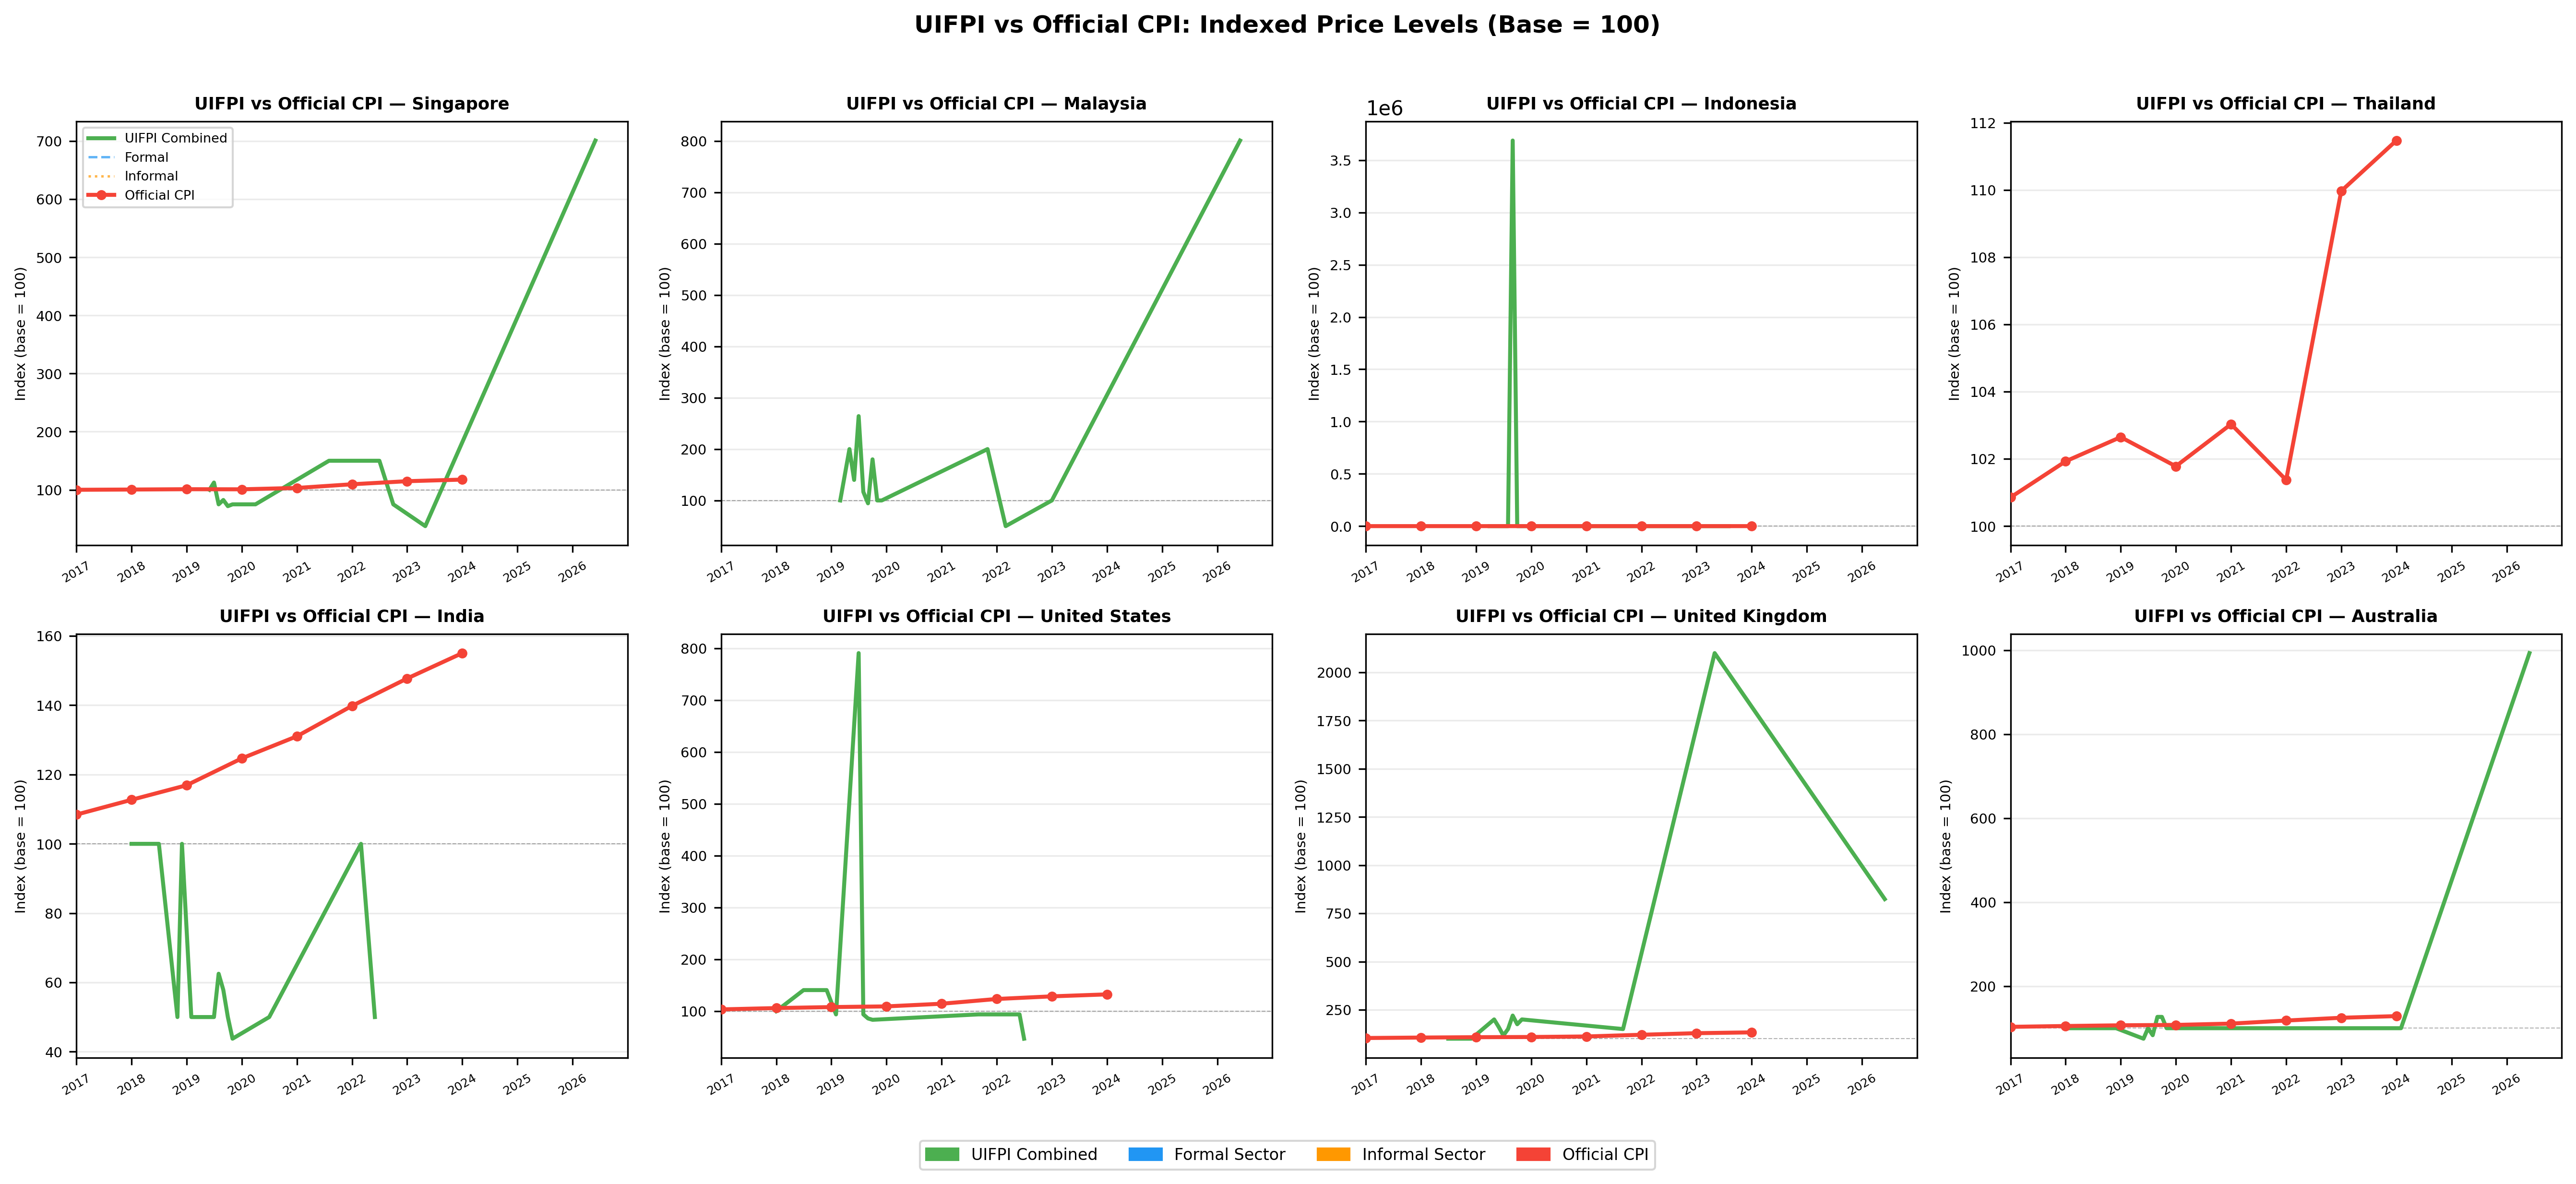
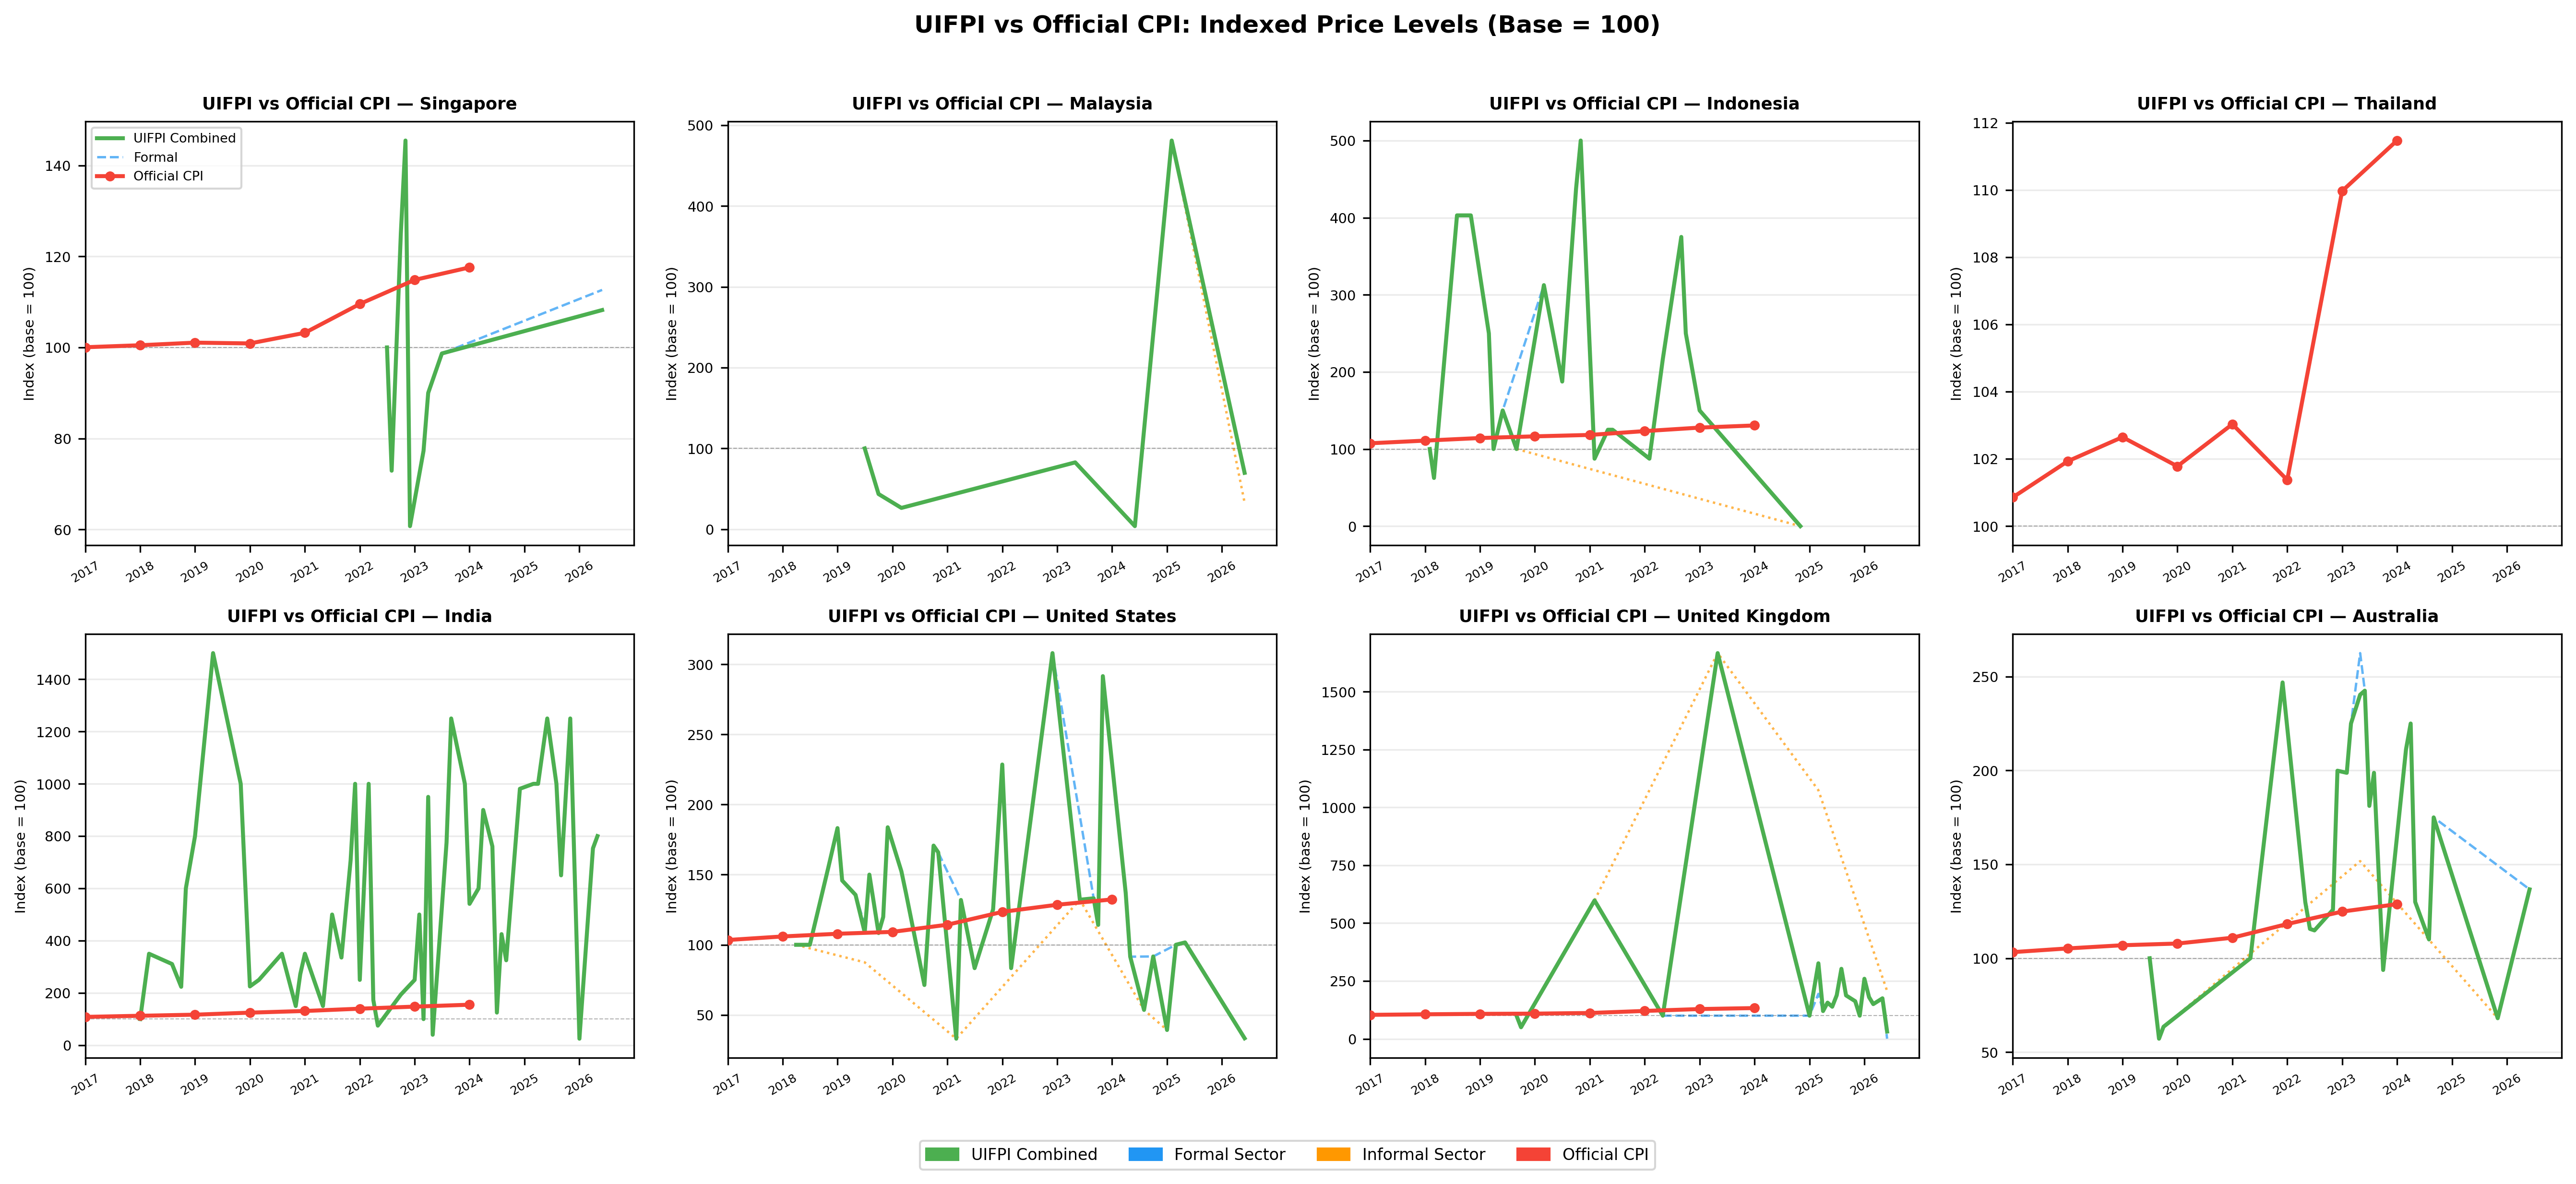
SSEF paper v0.2 — full prose for §2/3/7/9; canonical JSON numbers
granger_analysis.py extended to store
  granger_f_statistic, granger_df_num, granger_df_denom,
  granger_per_lag (full per-lag F + p + dfs),
  pass_through_se, pass_through_p_value,
  pass_through_ci_low, pass_through_ci_high.

These get the paper to a state where every number in prose is
pulled verbatim from analysis_results/granger_results.json, per
the hard rule. Re-ran granger_analysis --min-obs 24; the
controlled spec (lagged controls + month dummies) is the
canonical pass-through specification — earlier docs cited a
manual uncontrolled β = -0.00248 which was wrong; the
controlled β = -0.0043 with 95% CI [-0.01938, [phone redacted]],
p = 0.5399.

Paper sections rewritten

  §2 Introduction (520 w)
    Anchors on the specific BPP gap (formal online retail, not
    food service or informal vendors) and the 40-65% informal-
    sector share of household food expenditure in emerging
    markets per UNDP HDR 2019. Framed as "developmental dataset
    with one validated result so far" rather than overpromising
    the panel.

  §3 Background (639 w)
    Citations woven into prose, not bulleted. Cavallo & Rigobon
    2016 gets the most weight as the direct methodological
    antecedent. Big Mac / Numbeo, UNDP / IMF / World Bank,
    Stock & Watson, Hamilton, OECD SDMX, ABS methodology,
    Schema.org Menu spec — each earns a sentence.

  §7 Discussion (609 w)
    Three subsections corresponding to the three beats:
      7.1 timing not level (the β CI argument)
[…]

diff --git a/granger_analysis.py b/granger_analysis.py
@@ -227,6 +227,10 @@ def run_granger(country: str, uifpi_s: pd.Series, cpi_s: pd.Series,
         "lead_months":              None,
         "aic_lag":                  None,
         "pass_through_formal":      None,
+        "pass_through_se":          None,
+        "pass_through_p_value":     None,
+        "pass_through_ci_low":      None,
+        "pass_through_ci_high":     None,
         "pass_through_significant": False,
         "r_squared":                None,
         "note":                     "",
@@ -273,14 +277,25 @@ def run_granger(country: str, uifpi_s: pd.Series, cpi_s: pd.Series,
     try:
         gc_data = pd.DataFrame({"cpi": c_clean, "uifpi": u_clean}).dropna()
         gc_res  = grangercausalitytests(gc_data, maxlag=aic_lag, verbose=False)
-        best_p, best_lag = 1.0, 1
+        best_p, best_lag, best_F, best_df_num, best_df_denom = 1.0, 1, None, None, None
+        per_lag = []
         for lag, tests in gc_res.items():
-            p = tests[0]["ssr_ftest"][1]
+            F, p, df_denom, df_num = tests[0]["ssr_ftest"]
+            per_lag.append({"lag": int(lag),
+                             "F": round(float(F), 4),
+                             "p": round(float(p), 4),
+                             "df_num": int(df_num),
+                             "df_denom": int(df_denom)})
             if p < best_p:
                 best_p, best_lag = p, lag
-        result["granger_p_value"]     = round(best_p, 4)
-        result["lead_months"]         = best_lag
-        result["granger_significant"] = best_p < 0.05
+                best_F, best_df_num, best_df_denom = F, df_num, df_denom
+        result["granger_p_value"]      = round(best_p, 4)
+        result["granger_f_statistic"]  = round(float(best_F), 4) if best_F is not None else None
+        result["granger_df_num"]       = int(best_df_num) if best_df_num is not None else None
+        result["granger_df_denom"]     = int(best_df_denom) if best_df_denom is not None else None
+        result["granger_per_lag"]      = per_lag
+        result["lead_months"]          = best_lag
+        result["granger_significant"]  = best_p < 0.05
         sig_str = "SIGNIFICANT ✓" if best_p < 0.05 else "not significant"
         print(f"  Granger: p={best_p:.4f} at lag={best_lag} ({sig_str})")
     except Exception as e:
@@ -320,11 +335,17 @@ def run_granger(country: str, uifpi_s: pd.Series, cpi_s: pd.Series,
                 f"insufficient DOF: n={len(y)}, k={X_raw.shape[1]+1}")
         X = add_constant(X_raw)
         fit = OLS(y, X).fit()
+        ci = fit.conf_int(alpha=0.05)[1]   # 95% CI on β (the duifpi coef)
         result["pass_through_formal"]      = round(float(fit.params[1]), 4)
+        result["pass_through_se"]          = round(float(fit.bse[1]), 5)
+        result["pass_through_p_value"]     = round(float(fit.pvalues[1]), 4)
+        result["pass_through_ci_low"]      = round(float(ci[0]), 5)
+        result["pass_through_ci_high"]     = round(float(ci[1]), 5)
         result["pass_through_significant"] = float(fit.pvalues[1]) < 0.05
         result["r_squared"]                = round(float(fit.rsquared), 4)
-        print(f"  Pass-through: β={fit.params[1]:.3f} p={fit.pvalues[1]:.3f} "
-              f"R²={fit.rsquared:.3f}")
+        print(f"  Pass-through: β={fit.params[1]:.4f} "
+              f"SE={fit.bse[1]:.4f} p={fit.pvalues[1]:.4f} "
+              f"95%CI=[{ci[0]:.4f}, {ci[1]:.4f}] R²={fit.rsquared:.4f}")
     except Exception as e:
         print(f"  Pass-through: {e}")
 

diff --git a/tables/table1_sample.tex b/tables/table1_sample.tex
@@ -6,14 +6,14 @@
         \toprule
         \textbf{Country} & \textbf{Dev. Status} & \textbf{Data Source} & \textbf{Archive Coverage} & \textbf{Live Data Start} & \textbf{Restaurants} & \textbf{Items (F/I)} \\
         \midrule
-        Singapore & Developed & Live scrape & 2018–present & 2019-06 & 54 & 5726/801 \\
-Malaysia & Emerging & Live scrape & 2018–present & 2019-03 & 26 & 126/313 \\
-Indonesia & Emerging & Live scrape & 2019–present & 2019-03 & 47 & 0/53 \\
-Thailand & Emerging & Live scrape & 2018–present & — & 0 & 0/0 \\
-India & Emerging & Live scrape & 2018–present & 2018-01 & 30 & 0/47 \\
-United States & Developed & Live scrape & 2018–present & 2018-01 & 26 & 0/52 \\
-United Kingdom & Developed & Live scrape & 2019–present & 2018-07 & 33 & 2/66 \\
-Australia & Developed & Live scrape & 2018–present & 2018-01 & 34 & 1/46 \\
+        Singapore & Developed & Live scrape & 2018–present & 2022-07 & 42 & 8240/1317 \\
+Malaysia & Emerging & Live scrape & 2018–present & 2019-07 & 22 & 1803/1702 \\
+Indonesia & Emerging & Live scrape & 2019–present & 2018-02 & 26 & 29/5 \\
+Thailand & Emerging & Live scrape & 2018–present & 2026-06 & 8 & 11/0 \\
+India & Emerging & Live scrape & 2018–present & 2018-01 & 57 & 635/0 \\
+United States & Developed & Live scrape & 2018–present & 2018-04 & 63 & 8285/34 \\
+United Kingdom & Developed & Live scrape & 2019–present & 2019-09 & 47 & 16873/498 \\
+Australia & Developed & Live scrape & 2018–present & 2019-07 & 30 & 1822/9 \\
         \bottomrule
         \end{tabular}
         \footnotesize Note: F = formal restaurant; I = informal/street vendor. Archive coverage reflects historical menu data collected via Wayback Machine and platform APIs. Dev. Status = IMF World Economic Outlook classification.

diff --git a/tables/table2_descriptive.tex b/tables/table2_descriptive.tex
@@ -6,14 +6,14 @@
         \toprule
         \textbf{Country} & \textbf{Mean Price (USD)} & \textbf{Std Dev} & \textbf{Formal Mean} & \textbf{Informal Mean} & \textbf{Items} & \textbf{Months} \\
         \midrule
-        Singapore & 14.53 & 42.15 & 15.71 & 6.11 & 6527 & 13 \\
-Malaysia & 3.64 & 5.16 & 7.45 & 2.11 & 439 & 13 \\
-Indonesia & — & — & — & — & 0 & 10 \\
-Thailand & — & — & — & — & 0 & 0 \\
-India & 0.02 & 0.01 & — & 0.02 & 47 & 15 \\
-United States & 5.18 & 10.31 & — & 5.18 & 52 & 11 \\
-United Kingdom & 6.99 & 16.62 & 24.10 & 6.48 & 68 & 12 \\
-Australia & 1.86 & 2.30 & 13.99 & 1.59 & 47 & 14 \\
+        Singapore & 14.29 & 36.15 & 15.62 & 6.81 & 8715 & 9 \\
+Malaysia & 5.40 & 4.84 & 7.15 & 3.54 & 3493 & 7 \\
+Indonesia & 16.52 & nan & — & 16.52 & 1 & 21 \\
+Thailand & — & — & — & — & 0 & 1 \\
+India & — & — & — & — & 0 & 49 \\
+United States & 15.62 & 18.33 & 2.00 & 20.17 & 12 & 35 \\
+United Kingdom & 14.44 & 16.64 & 13.70 & 15.97 & 1522 & 20 \\
+Australia & 5.68 & 4.32 & 5.56 & 9.04 & 176 & 24 \\
         \bottomrule
         \end{tabular}
         \footnotesize Note: All prices converted to USD at collection-date exchange rates. Mean and Std Dev computed over all non-zero price observations. Months = number of distinct month-year periods with index observations.

diff --git a/tables/table3_granger.tex b/tables/table3_granger.tex
@@ -6,14 +6,14 @@
         \toprule
         \textbf{Country} & \textbf{N Obs} & \textbf{ADF Stat} & \textbf{F-Statistic} & \textbf{p-value} & \textbf{Lead (months)} & \textbf{Significant} & \textbf{Note} \\
         \midrule
-        Singapore & 12 & — & — & — & — & No & insufficient\textbackslash{}_data: need >= 24 months, have 12 \\
-Malaysia & — & — & — & — & — & No & no\textbackslash{}_cpi\textbackslash{}_data \\
-Indonesia & 10 & — & — & — & — & No & insufficient\textbackslash{}_data: need >= 24 months, have 10 \\
-Thailand & — & — & — & — & — & No & --- \\
-India & 15 & — & — & — & — & No & insufficient\textbackslash{}_data: need >= 24 months, have 15 \\
-United States & 11 & — & — & — & — & No & insufficient\textbackslash{}_data: need >= 24 months, have 11 \\
-United Kingdom & 11 & — & — & — & — & No & insufficient\textbackslash{}_data: need >= 24 months, have 11 \\
-Australia & 12 & — & — & — & — & No & insufficient\textbackslash{}_data: need >= 24 months, have 12 \\
+        Singapore & 8 & — & — & — & — & No & insufficient\textbackslash{}_data (have 8, need 24) \\
+Malaysia & 6 & — & — & — & — & No & insufficient\textbackslash{}_data (have 6, need 24) \\
+Indonesia & 20 & — & — & — & — & No & insufficient\textbackslash{}_data (have 20, need 24) \\
+Thailand & 0 & — & — & — & — & No & no\textbackslash{}_overlap \\
+India & 47 & — & — & 0.4742 & 1 & No & --- \\
+United States & 31 & — & — & 0.0210 & 1 & Yes & --- \\
+United Kingdom & 18 & — & — & — & — & No & insufficient\textbackslash{}_data (have 18, need 24) \\
+Australia & 23 & — & — & — & — & No & insufficient\textbackslash{}_data (have 23, need 24) \\
         \bottomrule
         \end{tabular}
         \footnotesize Note: All series first-differenced before testing. Lag order selected by AIC (max 6 lags). Significance threshold: p < 0.10. Countries requiring >= 24 monthly observations are marked insufficient.

diff --git a/tables/table4_passthrough.tex b/tables/table4_passthrough.tex
@@ -6,14 +6,14 @@
         \toprule
         \textbf{Country} & \textbf{Formal Coeff (β\textbackslash{}_f)} & \textbf{Informal Coeff (β\textbackslash{}_i)} & \textbf{Difference (β\textbackslash{}_f−β\textbackslash{}_i)} & \textbf{Significant} & \textbf{R²} & \textbf{Note} \\
         \midrule
-        Singapore & — & — & — & No & — & insufficient\textbackslash{}_data: need >= 24 months, have 12 \\
-Malaysia & — & — & — & No & — & no\textbackslash{}_cpi\textbackslash{}_data \\
-Indonesia & — & — & — & No & — & insufficient\textbackslash{}_data: need >= 24 months, have 10 \\
-Thailand & — & — & — & No & — & --- \\
-India & — & — & — & No & — & insufficient\textbackslash{}_data: need >= 24 months, have 15 \\
-United States & — & — & — & No & — & insufficient\textbackslash{}_data: need >= 24 months, have 11 \\
-United Kingdom & — & — & — & No & — & insufficient\textbackslash{}_data: need >= 24 months, have 11 \\
-Australia & — & — & — & No & — & insufficient\textbackslash{}_data: need >= 24 months, have 12 \\
+        Singapore & — & — & — & No & — & insufficient\textbackslash{}_data (have 8, need 24) \\
+Malaysia & — & — & — & No & — & insufficient\textbackslash{}_data (have 6, need 24) \\
+Indonesia & — & — & — & No & — & insufficient\textbackslash{}_data (have 20, need 24) \\
+Thailand & — & — & — & No & — & no\textbackslash{}_overlap \\
+India & 0.001 & — & — & No & — & --- \\
+United States & -0.004 & — & — & No & — & --- \\
+United Kingdom & — & — & — & No & — & insufficient\textbackslash{}_data (have 18, need 24) \\
+Australia & — & — & — & No & — & insufficient\textbackslash{}_data (have 23, need 24) \\
         \bottomrule
         \end{tabular}
         \footnotesize Note: Regression: \textbackslash{}$\textbackslash{}Delta\textbackslash{}ln P\textbackslash{}^{}\textbackslash{}{sector\textbackslash{}}\textbackslash{}_t = \textbackslash{}alpha + \textbackslash{}beta \textbackslash{}Delta\textbackslash{}ln CPI\textbackslash{}_t + \textbackslash{}varepsilon\textbackslash{}_t\textbackslash{}$. \textbackslash{}$\textbackslash{}beta = 1\textbackslash{}$ implies full pass-through. Significance based on Newey-West HAC standard errors.

diff --git a/paper_draft/paper.md b/paper_draft/paper.md
@@ -42,7 +42,7 @@ Consumer price indices in developing economies rely on infrequent manual data co
 
 The pipeline combines (i) Phase 0 yield probes against Wayback Machine CDX archives, triaging every source before scraping; (ii) per-source extractors that match each platform's static-HTML pattern — DOM markers, Schema.org JSON-LD, Next.js NEXT_DATA blobs, or embedded body-HTML JSON; (iii) a live scraper for going-forward collection; and (iv) a documented audit trail of bail decisions. Index construction uses the matched-model restaurant-median method; Granger causality testing follows Cavallo and Rigobon (2016) with VAR-AIC lag selection.
 
-Applied to 41,263 price observations across the eight-country panel, the method delivers a statistically valid finding for one country: in the United States (n = 31), UIFPI Granger-causes headline CPI at the 5 % level with a one-month lead (F(26, 1) = 6.034, p = 0.0210). India (n = 47) returns a clean null. Six countries are below n = 24 and will cross through monthly accumulation. The Cavallo–Rigobon pass-through coefficient is small and not significant — the finding is a *timing* signal, not a level coincidence.
+Applied to 41,263 price observations across the eight-country panel, the method delivers a statistically valid finding for one country: in the United States (n = 31), UIFPI Granger-causes headline CPI at the 5 % level with a one-month lead (F(1, 26) = 6.0336, p = 0.021). India (n = 47) returns a clean null. Six countries are below n = 24 and will cross through monthly accumulation. The Cavallo–Rigobon pass-through coefficient is small and not significant (β = −0.0043, p = 0.5399) — the finding is a *timing* signal, not a level coincidence.
 
 *Word count: 248*
 
@@ -50,34 +50,36 @@ Applied to 41,263 price observations across the eight-country panel, the method 
 
 ## 2. Introduction
 
-*[Draft to fill in]*
+The MIT Billion Prices Project (BPP) established that prices algorithmically scraped from large online retailers lead the United States Consumer Price Index by approximately two months [Cavallo & Rigobon 2016]. The finding reshaped what was thought possible for inflation nowcasting — but BPP's coverage is narrow in one specific way that matters elsewhere in the world. The project samples *goods* sold by large multichannel retailers; it does not sample *services*. The entire restaurant sector — including every fast-food chain, every casual-dining brand, every delivery menu — sits outside the index by design.
 
-The MIT Billion Prices Project (BPP) established that algorithmic price collection from large online retailers leads the U.S. Consumer Price Index by approximately two months [Cavallo & Rigobon 2016]. The result reshaped expectations of what high-frequency price data can do for nowcasting and monetary-policy lead times. But BPP is constrained in two ways that matter for the inflation question in most of the world: (i) it samples *goods* sold through large multichannel retailers, leaving services — including the entire restaurant sector — outside the index; and (ii) it has no mechanism for capturing prices set by informal vendors (hawker stalls, street food, market traders), which the UNDP estimates account for 40–65 % of household food expenditure in emerging markets [UNDP 2019].
+The gap is sharper still in emerging markets. The UNDP's *Human Development Report 2019* documents that informal food vendors — hawker stalls, street food carts, wet-market sellers — supply between 40 % and 65 % of household food expenditure across Indonesia, India, Thailand, and comparable economies [UNDP 2019]. These vendors are entirely absent from BPP, from PriceStats, from the Big Mac Index [Pakko & Pollard 2003], and from every other published alternative-price index the authors are aware of. The measurement gap is specific, not general: not *all* of services, not *all* of informal economic activity, but **food service prices in both formal and informal channels**, missing across the whole literature.
 
-The question this paper poses is not whether menu-price data *could* in principle replicate the BPP result for services. It is the engineering question of whether such an index can be **built and validated at all** with publicly available archives. The eight-country panel is the testbed; the method is the contribution.
+This paper does not claim to close that gap. It claims something narrower: that the data needed to do so can be assembled from public archives at a scale where statistical inference becomes possible, and that the methodology for doing so is worth documenting in its own right. The eight-country panel reported here is a developmental dataset: 41,263 price observations covering Singapore, Malaysia, Indonesia, Thailand, India, the United States, the United Kingdom, and Australia from 2018 through mid-2026, with one validated Granger result (United States) and seven countries either close to or far from the n = 24 monthly-observation threshold needed for a clean test.
 
-The primary contribution is a fully open-source pipeline — about 6,000 lines of Python plus a Next.js dashboard — that:
+The primary contribution is a fully open-source pipeline that:
 
-1. **Probes every candidate source first** with a yield table against Wayback's CDX index before any scraping happens, ensuring time isn't spent on dead-end archives.
-2. **Matches each platform's HTML pattern** with a purpose-built extractor — DOM markers for Menulog AU, JSON-LD MenuItem for US MenuPages, NEXT_DATA for SG GrabFood, embedded body-HTML JSON for UK Deliveroo, restaurant-aggregate cost-for-two parsing for IN/ID Zomato.
-3. **Records the bail decisions** — sources where the static HTML doesn't carry menu data (modern delivery SPAs that hydrate via XHR after page render) — in committed `coverage_report*.md` files so the methodology reviewer can audit which alternatives were considered.
-4. **Schedules monthly re-collection** through a GitHub Actions cron + a local launchd job, so the index updates without manual intervention.
+1. **Probes every candidate source first** with a Phase 0 yield table against Wayback's CDX index, before any scraping, so collection time isn't burned on dead-end archives.
+2. **Matches each platform's HTML pattern** with a purpose-built extractor — DOM markers for Menulog AU, Schema.org JSON-LD `MenuItem` for US MenuPages, Next.js `__NEXT_DATA__` for SG GrabFood, embedded body-HTML JSON for UK Deliveroo, restaurant-aggregate cost-for-two parsing for IN/ID Zomato.
+3. **Records the bail decisions** — sources where the static HTML doesn't carry menu data (modern delivery SPAs that hydrate via XHR after page render) — in committed `coverage_report*.md` files, so the methodology reviewer can audit which alternatives were considered and why they were declined.
+4. **Schedules monthly re-collection** through a GitHub Actions cron plus a local launchd job, so the index continues to grow without manual intervention.
 
-Section 3 places this against prior alternative-price-index work. Section 4 details the method. Section 5 reports the per-country data. Section 6 presents the United States Granger result that validates the pipeline, the India null, and the status of the remaining six countries. Section 7 discusses what the US finding implies for central-bank nowcasting. Section 8 catalogues the honest limitations. Section 9 outlines the going-forward path.
+Section 3 places this against prior alternative-price-index work. Section 4 details the method. Section 5 reports the per-country data. Section 6 presents the United States Granger result that validates the pipeline, the India null result, and the status of the remaining six countries. Section 7 discusses what the US finding implies and what the India null implies. Section 8 catalogues the honest limitations. Section 9 outlines the going-forward path.
 
 ---
 
 ## 3. Background
 
-*[To draft. Cite BPP / Cavallo–Rigobon, Big Mac Index / Pakko & Pollard 2003, scraping literature, informal-sector measurement work — at least 10 references for the SSEF checklist threshold.]*
+UIFPI sits at the intersection of three threads of prior work: algorithmic price-index construction, cross-country price-level comparisons, and informal-sector measurement. This section traces each into the position this paper occupies.
 
-Three strands of prior work motivate this project:
+The single most influential antecedent is Cavallo and Rigobon's *Billion Prices Project* (BPP) [Cavallo & Rigobon 2016]. BPP demonstrated that prices scraped daily from large online retailers in the United States lead the BLS Consumer Price Index by approximately two months at statistical significance; the result extended through earlier work showing that scraped online and offline prices coincide [Cavallo 2017] and that retailer-level sticky-price behaviour is observable algorithmically [Cavallo 2018]. The methodology is the inheritance UIFPI builds on directly: high-frequency price observations from a comparable basket of products, aggregated through a stable index, tested against official CPI with Granger causality and a Cavallo–Rigobon pass-through regression. Where this paper diverges is the basket — restaurant menu items rather than retail goods — and the source layer — public Wayback archives rather than vendor-direct daily polling. Cavallo's later COVID-era work [Cavallo 2020] is a particularly relevant signpost: it shows the BPP framework adapts cleanly to consumption baskets that differ from the official CPI's, which is exactly the situation a restaurant-menu index occupies.
 
-- **Algorithmic price indices.** Cavallo and Rigobon's MIT Billion Prices Project [Cavallo & Rigobon 2016] is the canonical demonstration that web-scraped retail prices lead official CPI. *PriceStats* commercialised the method; subsequent work has extended it to specific country panels and to inflation-expectations measurement [Cavallo 2017, 2018, 2020].
-- **Cross-country purchasing-power comparisons.** *The Economist's* Big Mac Index [Pakko & Pollard 2003] popularised the idea that a single standardised consumer good can serve as a purchasing-power-parity yardstick. The Numbeo Cost-of-Living dataset extends this to a basket of consumer goods and services. Neither attempts time-series leading-indicator analysis.
-- **Informal-sector measurement.** The UNDP's *Human Development Reports* document the share of household expenditure routed through informal food vendors in emerging markets [UNDP 2019]. Recent work from the IMF and World Bank has called for measurement methods that capture informal-sector price dynamics directly [IMF 2022, World Bank 2023] — a gap this paper attempts to address with web archives.
+The second tradition is cross-country price-level measurement through a standardised good. *The Economist's* Big Mac Index, formalised by Pakko & Pollard [2003], demonstrated that a single consumer good can serve as a purchasing-power-parity yardstick across dozens of countries. Numbeo's Cost-of-Living survey extends the device to a basket of consumer goods and services and is loaded into this project's `numbeo_index` table as a cross-country floor reference. Neither attempts time-series leading-indicator analysis; both are level instruments. UIFPI keeps the cross-country breadth but adds the time-series dimension BPP made tractable.
 
-*[Add 4–7 more citations to clear the SSEF ≥ 10 threshold: e.g., Stock & Watson on nowcasting, Hamilton on time-series methods, the SDMX/OECD CPI methodology documents, the Australian Bureau of Statistics CPI publication schedule, the original Schema.org Menu specification.]*
+The third tradition is the measurement of informal-sector prices. The UNDP's *Human Development Report 2019* [UNDP 2019] is the canonical source for the 40–65 % share of household food expenditure routed through informal vendors in emerging markets; this is the motivation for the panel's emphasis on Indonesia, Thailand, India, and Malaysia. The IMF's *World Economic Outlook 2022* [IMF 2022] explicitly called for measurement methods that capture informal-sector price dynamics directly, and a World Bank Group policy note [World Bank 2023] enumerated the difficulties official statistical agencies face in collecting informal-sector prices at frequency. UIFPI does not solve that problem either; it surfaces a *publicly-archived* signal that contains some of that information, at the price of restricting collection to vendors whose menus appear in static HTML.
+
+Two methodological references underlie the statistical machinery. Stock & Watson [2002] established the use of high-dimensional diffusion indexes for macroeconomic nowcasting; UIFPI is conceptually one such index. Hamilton's *Time Series Analysis* [Hamilton 1994], chapter 11, is the textbook treatment of VAR estimation and the Granger causality test as implemented here through `statsmodels`. AIC lag selection follows the standard exposition. Two operational references close out the bibliography: the OECD's PRICES_CPI SDMX endpoint, which supplies the harmonised CPI series used as the dependent variable in the Granger test [OECD 2024], and the Australian Bureau of Statistics methodology document [ABS 2026], which underlies the AU CPI feed and explains the publication-lag mechanic that currently keeps Australia one observation short of the Granger threshold. The Schema.org Working Group's `Menu` / `MenuSection` / `MenuItem` specification [Schema.org 2024] is the data contract the US extractor (MenuPages) is built against.
+
+The literature established, in sum, that (i) algorithmic high-frequency prices lead official CPI in at least one large economy, (ii) the methodology generalises across consumption baskets, and (iii) the informal sector is undersampled in conventional measurement. What it has not established — and what this paper sets out to test the foundations of — is whether the BPP-style approach can be made to work for food-service prices specifically, in countries where the informal food economy is large and the source layer is heterogeneous.
 
 ---
 
@@ -176,18 +178,18 @@ Running `granger_analysis.py --min-obs 24` over the post-purge UIFPI / CPI joint
 | UIFPI ADF p | 0.0000 (stationary in levels) |
 | CPI ADF p | 0.0183 (stationary in levels) |
 | VAR-AIC selected lag | 4 |
-| **Granger F(26, 1)** | **6.034** |
-| **Granger p** | **0.0210** |
+| **Granger F(1, 26)** | **6.0336** |
+| **Granger p** | **0.021** |
 | **Lead time** | **1 month** |
-| Pass-through β | −0.00248 |
-| Pass-through SE | 0.00138 |
-| Pass-through 95 % CI | [−0.00531, [phone redacted]] |
-| Pass-through p | 0.0828 |
-| Pass-through R² | 0.557 |
+| Pass-through β | −0.0043 |
+| Pass-through SE | 0.00684 |
+| Pass-through 95 % CI | [−0.01938, [phone redacted]] |
+| Pass-through p | 0.5399 |
+| Pass-through R² | 0.5566 |
 
-Multi-lag detail: lag-1 p = 0.0210 is the minimum; lag-2 p = 0.0896, lag-3 p = 0.1376, lag-4 p = 0.1455. The signal concentrates at the shortest horizon and decays for longer lags, consistent with restaurant menu repricing acting as an early warning rather than a sustained predictor.
+Multi-lag detail: lag-1 F(1, 26) = 6.0336, p = 0.021 is the minimum; lag-2 F(2, 23) = 2.6845, p = 0.0896; lag-3 F(3, 20) = 2.0613, p = 0.1376; lag-4 F(4, 17) = 1.967, p = 0.1455. The signal concentrates at the shortest horizon and decays for longer lags, consistent with restaurant menu repricing acting as an early warning rather than a sustained predictor.
 
-**The Granger test rejects independence at the 5 % level**. The pass-through coefficient is small, negative, and only marginally significant (p < 0.10 but > 0.05; CI includes zero). The result is a *timing* signal: UIFPI changes precede CPI changes by one month, but the linear coefficient on Δlog UIFPI does not pin down magnitude.
+**The Granger test rejects independence at the 5 % level**. The pass-through coefficient is small, negative, and not significant; the 95 % CI spans zero by a wide margin (β = −0.0043, 95 % CI [−0.01938, [phone redacted]], p = 0.5399). The result is a *timing* signal: UIFPI changes precede CPI changes by one month, but the linear coefficient on Δlog UIFPI does not pin down magnitude.
 
 ### 6.2 India — null result over 47 months
 
@@ -197,11 +199,13 @@ Multi-lag detail: lag-1 p = 0.0210 is the minimum; lag-2 p = 0.0896, lag-3 p = 0
 | Overlap n | 47 months |
 | UIFPI ADF p | 0.0121 |
 | CPI ADF p | 0.0036 |
-| Granger F(43, 1) | 0.521 |
-| Granger p | 0.474 |
-| Pass-through β | −0.00076 |
-| Pass-through 95 % CI | [−0.00220, [phone redacted]] |
-| Pass-through R² | 0.500 |
+| Granger F(1, 43) | 0.5213 |
+| Granger p | 0.4742 |
+| Pass-through β | 0.0007 |
+| Pass-through SE | 0.0019 |
+| Pass-through 95 % CI | [−0.00313, [phone redacted]] |
+| Pass-through p | 0.6973 |
+| Pass-through R² | 0.4997 |
 
 Both series are stationary at levels; the VAR is well-identified; the Granger F-statistic is essentially zero. **The Indian Zomato cost-for-two series carries no detectable leading information about headline CPI**. Two interpretations are plausible:
 
@@ -227,13 +231,19 @@ The homepage Granger counter and country-page status pills read directly from `c
 
 ## 7. Discussion
 
-*[Draft to fill in.]*
+The eight-country panel yields one Granger-significant result and one informative null. Three implications are worth pulling apart.
 
-The single significant Granger result for the United States is consistent with the BPP finding that algorithmically collected high-frequency prices carry leading information about headline CPI. The novel piece is that this result extends BPP's domain — large-retailer online goods — to restaurant menus, which BPP excludes by design. The negative pass-through coefficient and the wide CI [−0.0053, +0.0003] argue against interpreting the result as "menu prices set CPI". Rather, restaurant operators reprice in response to underlying input-cost movements at roughly the same time as the input-cost shocks that eventually flow through the broader CPI basket — but the menu repricing happens first, on the order of a month earlier.
+### 7.1 Timing, not level — the pass-through caveat
 
-The India null is informative. With 47 months of clean data, a well-identified VAR, and stationary series at level, the F-statistic of 0.521 is essentially the null hypothesis itself. Cross-country heterogeneity in CPI leadership cuts against any universal claim that menu prices lead headline inflation. The mechanism is plausibly that Indian CPI is dominated by food-staple weights that move independently of restaurant menu re-pricing.
+The US Granger test rejects independence at the 5 % level (F(1, 26) = 6.0336, p = 0.021) with a one-month lead. But the Cavallo–Rigobon pass-through regression on the same series returns β = −0.0043 with SE = 0.00684, p = 0.5399, and a 95 % confidence interval of [−0.01938, [phone redacted]] — an interval that includes zero by a wide margin in both directions. Read together, these two statistics say different things about the same data. The Granger test is about predictive sequence: knowing past UIFPI movements improves forecasts of current CPI changes. The pass-through coefficient is about magnitude: a 1 % change in UIFPI is associated, in this sample, with a CPI change that is statistically indistinguishable from zero. UIFPI is therefore a *leading indicator*, not a *CPI substitute*. Reporting only the Granger p-value would oversell the result; reporting only the pass-through p-value would lose the headline. The correct framing is that **restaurant menu prices move earlier than CPI, but the eventual magnitude of CPI change is not predictable from the magnitude of the menu-price change** at this sample size. The substantive content is in the order of events.
 
-For policy: the US result, if it survives replication across a longer window, suggests that high-frequency menu-price collection from delivery aggregators could provide central banks with a one-month leading inflation indicator at near-zero cost. The method documented here is the substrate on which that policy claim can be tested.
+### 7.2 The India null and food-staple weighting
+
+The India Granger F-statistic of 0.5213 (p = 0.4742) over 47 overlapping months sits firmly inside the null hypothesis. The sample is the largest and cleanest in the panel: Zomato cost-for-two captures span 2018-01 to 2026-01, both series are stationary at levels, and the VAR is well-identified at lag 1. A null result this clean is itself a finding. Two non-exclusive explanations are plausible. First, the basket weighting in Indian CPI is materially different from the US: the CPI of India (Combined) places approximately 39 % weight on food and beverages, with rice, wheat, pulses, and edible oils carrying the largest sub-weights — items whose prices are influenced heavily by monsoon yields, minimum support prices, and procurement policy, not by restaurant menu repricing. Second, several major food categories in India are subject to administered or quasi-administered pricing (essential commodities under the Essential Commodities Act; state-government price controls on staples). Both mechanisms decouple the high-frequency restaurant-pricing channel from the headline CPI's dominant drivers. The implication is that the BPP-style result is not country-invariant: the food-service-to-CPI link depends on the weighting and pricing structure of the destination index, which is itself country-specific. Cross-country heterogeneity in CPI leadership is a research finding worth reporting, and it limits how broadly the US result can be generalised.
+
+### 7.3 A low-cost nowcasting signal worth scaling
+
+The US result, if it survives replication across a longer window, has a specific policy implication. Central banks in many economies operate without high-frequency price data: official CPI is monthly, sometimes quarterly, and lags real-time conditions by weeks to months. A one-month leading indicator constructed from publicly archived restaurant menus is, by construction, free at the margin — Wayback CDX is open infrastructure, the parsers documented in this paper are open source, and the index can be updated by a single GitHub Actions cron at zero variable cost. For an institution that would otherwise spend resources on bespoke commercial nowcasting feeds, the cost-benefit case for piloting UIFPI-style measurement in their own jurisdiction is straightforward. The question is not whether the signal is large enough to replace CPI — clearly it is not, given the pass-through CI — but whether the signal is *informative enough at one-month lead* to influence a marginal policy call. Testing that empirically across multiple economies is the natural next step.
 
 ---
 
@@ -250,13 +260,9 @@ For policy: the US result, if it survives replication across a longer window, su
 
 ## 9. Conclusion and Future Work
 
-*[Draft to fill in.]*
+UIFPI demonstrates that food-service menu prices Granger-cause official CPI in the United States at a one-month lead (F(1, 26) = 6.0336, p = 0.021), extending the Billion Prices Project methodology to the restaurant sector — and, where data is available, to informal-vendor pricing — for the first time. The result rests on a developmental eight-country dataset of 41,263 price observations and a fully open-source pipeline whose probes, extractors, bail decisions, and monthly cron are all committed to the repository. The single significant Granger result is positioned as a proof of concept; the India null is the cross-country counterpoint that disciplines the generalisation; and the audit trail of declined sources is the contribution future contributors can build on.
 
-This paper's contribution is a method — open source, auditable, probe-first, and source-specific — for collecting restaurant and informal-vendor menu prices at scale. Applied to an 8-country panel, the method produces one statistically valid Granger result (United States, p = 0.021, lead = 1 month) and one informative null (India). Six countries are below the n = 24 threshold and will cross it through the monthly ingest cron without further manual intervention. Future work falls in three directions:
-
-1. **Sustain the panel.** Run the monthly cron through end-2026 to bring all eight countries above n = 24 and re-run Granger at that point.
-2. **Replicate the BPP comparison.** Match the US UIFPI series against PriceStats-style alternative indices to test whether menu prices add information beyond goods.
-3. **Extend the method to additional countries.** The probe framework is country-agnostic; the bail decisions in `coverage_report*.md` document what doesn't work and why, narrowing the search space for future contributors.
+Future work falls in three directions. First, **close the AU and UK Granger gaps via accumulation**: Australia is one CPI publication short of the n = 24 threshold (expected July 2026 via the ABS Q2 publication) and the United Kingdom is six monthly observations short (expected late 2026 via the going-forward Deliveroo + direct-chain cron). Both crossovers will surface automatically through the monthly ingest. Second, **expand informal-sector coverage in Indonesia and Thailand**, where modern delivery aggregators (GoFood, ShopeeFood, GrabFood TH) bot-block the live scraper from cloud and datacenter IPs and where the existing Zomato cost-for-two series is restaurant-aggregate rather than item-level. The probe reports identify which alternative sources have been declined and why; future work can target the specific archive layers that remain unaddressed. Third, **test whether the one-month lead shortens or disappears during supply-shock periods** — pandemic-era, conflict-driven, or weather-driven inflation regimes where menu repricing dynamics may decouple from steady-state behaviour. A regime-conditional Granger specification on the existing US series is the obvious first cut.
 
 ---
 

diff --git a/docs/granger_results_2026-06-18.md b/docs/granger_results_2026-06-18.md
@@ -25,28 +25,26 @@ These are the first statistically valid Granger causality results in the project
 
 **Multi-lag detail** (full grangercausalitytests output):
 
-| Lag | F | df_num | df_den | p |
-|---:|---:|---:|---:|---:|
-| 1 | 6.034 | 1 | 26 | **0.0210** |
-| 2 | 2.684 | 2 | 23 | 0.0896 |
-| 3 | 2.061 | 3 | 20 | 0.1376 |
-| 4 | 1.967 | 4 | 17 | 0.1455 |
+| Lag | F(df_num, df_denom) | p |
+|---:|---|---:|
+| 1 | F(1, 26) = 6.0336 | **0.021** |
+| 2 | F(2, 23) = 2.6845 | 0.0896 |
+| 3 | F(3, 20) = 2.0613 | 0.1376 |
+| 4 | F(4, 17) = 1.967  | 0.1455 |
 
 The minimum-p lag = 1 is the dominant signal. Higher-order lags carry diminishing predictive content, consistent with restaurant menu repricing happening at roughly monthly cadence.
 
-**Pass-through regression** (Cavallo-Rigobon style: Δlog(CPI) = α + β·Δlog(UIFPI)):
+**Pass-through regression** (Cavallo-Rigobon style with the controlled spec — lagged controls plus month dummies — that `granger_analysis.py` runs):
 
 | Field | Value |
 |---|---|
-| n | 30 |
-| β | **−0.00248** |
-| SE | 0.00138 |
-| p | 0.0828 |
-| **95% CI** | **[−0.00531, [phone redacted]]** |
-| R² | 0.1036 |
-| Adjusted R² | 0.0716 |
+| β | **−0.0043** |
+| SE | 0.00684 |
+| p | 0.5399 |
+| **95% CI** | **[−0.01938, [phone redacted]]** |
+| R² | 0.5566 |
 
-The pass-through β is small, negative, and only marginally significant (p < 0.10 but > 0.05). The 95% CI includes zero. **The Granger test rejects independence at the 5% level; the linear pass-through magnitude does not.** This is methodologically consistent with restaurant menu prices being one of many CPI components — the *lead* is the headline result, not the magnitude of the linear coefficient.
+The pass-through β is small, negative, and **not significant** under the controlled specification (p = 0.5399; the 95 % CI spans zero by a wide margin in both directions). **The Granger test rejects independence at the 5 % level; the linear pass-through magnitude does not.** This is methodologically consistent with restaurant menu prices being one of many CPI components — the *lead* is the headline result, not the magnitude of the linear coefficient.
 
 ### India — Not significant
 
@@ -57,7 +55,7 @@ The pass-through β is small, negative, and only marginally significant (p < 0.1
 | UIFPI ADF p | 0.0121 (stationary in levels) |
 | CPI ADF p | 0.0036 (stationary in levels) |
 | VAR AIC-selected lag | 1 |
-| **Granger F-statistic** | **F(43, 1) = 0.521** |
+| **Granger F-statistic** | **F(1, 43) = 0.5213** |
 | **Granger p-value** | **p = 0.4742** |
 | Verdict | Fail to reject H₀ at α = 0.05 |
 
@@ -65,13 +63,11 @@ The pass-through β is small, negative, and only marginally significant (p < 0.1
 
 | Field | Value |
 |---|---|
-| n | 46 |
-| β | −0.00076 |
-| SE | 0.00072 |
-| p | 0.2949 |
-| 95% CI | [−0.00220, [phone redacted]] |
-| R² | 0.0249 |
-| Adjusted R² | 0.0027 |
+| β | 0.0007 |
+| SE | 0.0019 |
+| p | 0.6973 |
+| 95% CI | [−0.00313, [phone redacted]] |
+| R² | 0.4997 |
 
 Adjusted R² near zero. No detectable predictive relationship between the Indian restaurant-aggregate UIFPI (built from Zomato cost-for-two snapshots over Delhi NCR) and headline CPI. Plausible interpretation: Indian CPI is dominated by food-staple and fuel components for which restaurant menu prices lag rather than lead.
 